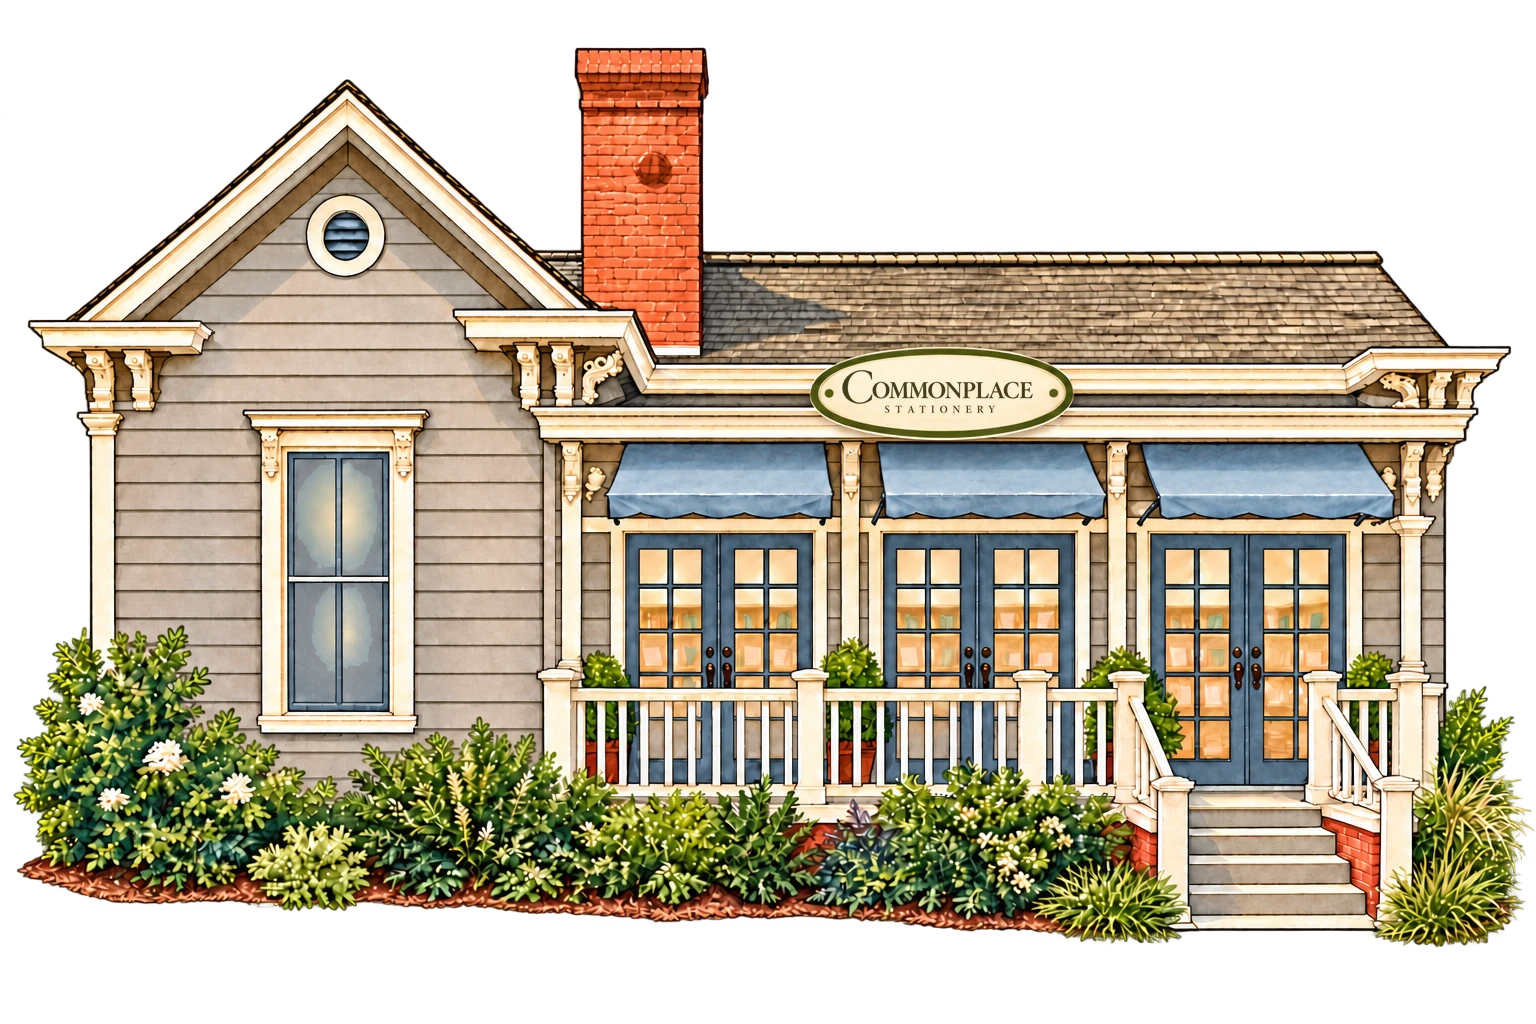
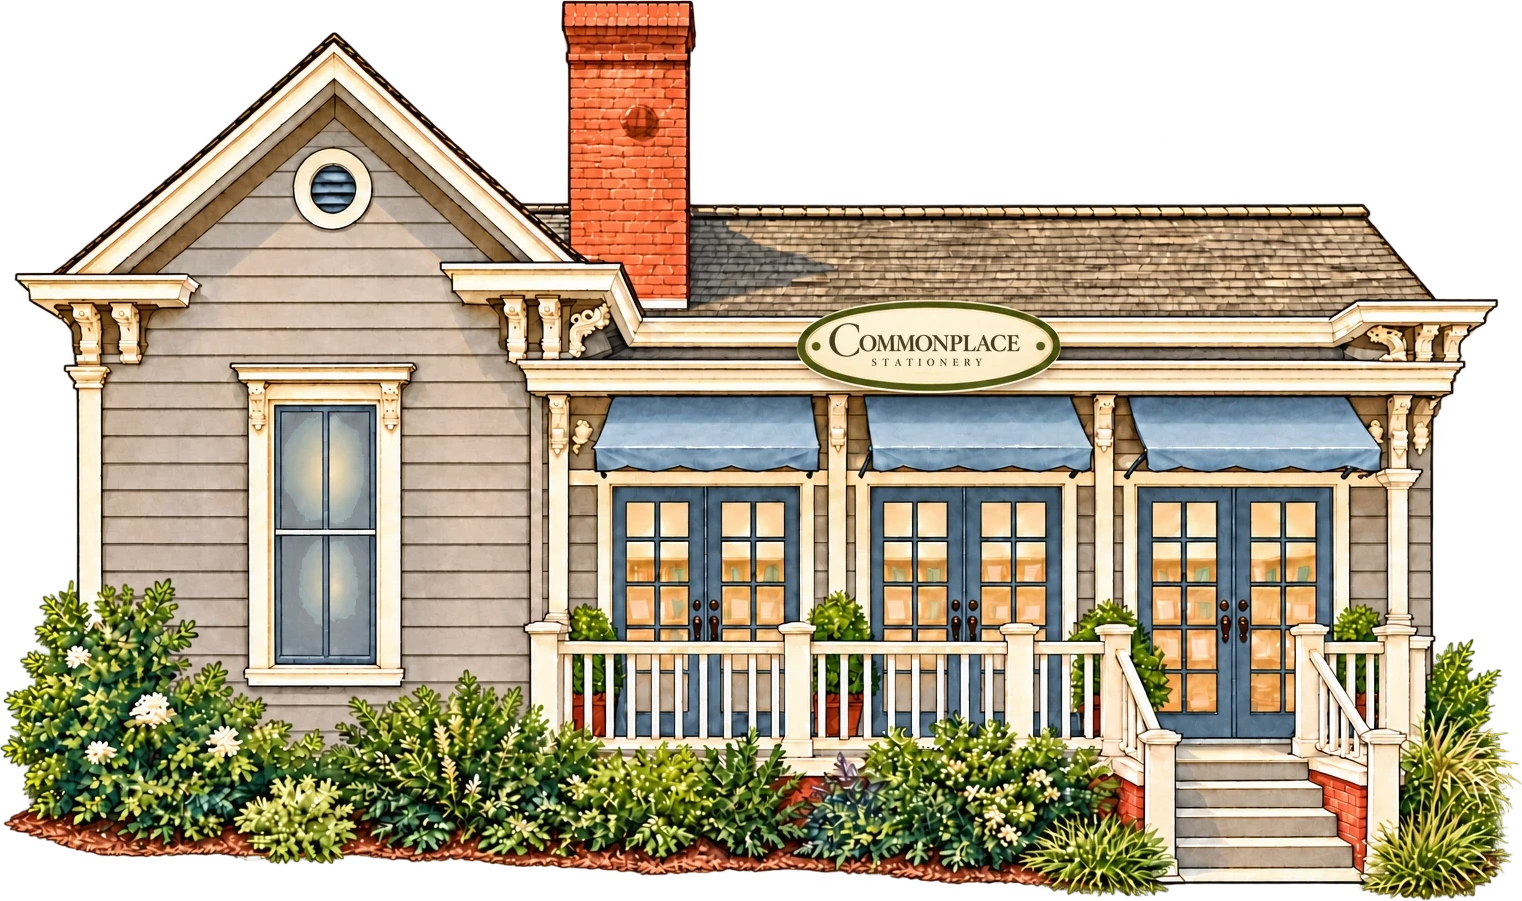
Pull the wordmark closer to the storefront
Trim the transparent padding from both images so the spacing
in CSS is the spacing you see.

Claude-Session: https://claude.ai/code/session_01Xrao6NnKEmBaN1eTBRx3RJ

diff --git a/css/styles.css b/css/styles.css
@@ -1,5 +1,5 @@
 /* Commonplace Stationery
-   Layout: a single quiet column on warm cream, wordmark above the storefront,
+   Layout: a single quiet column on warm cream, storefront above the wordmark,
    blue gingham along the bottom like a table runner. */
 :root {
   /* Palette (brand/palette.png) */
@@ -45,13 +45,13 @@ img { max-width: 100%; height: auto; display: block; }
   display: flex;
   flex-direction: column;
   align-items: center;
-  gap: clamp(1rem, 2.5vw, 2rem);
+  gap: clamp(0.75rem, 2vw, 1.5rem);
   padding-block: clamp(2rem, 6vw, 4.5rem) clamp(2rem, 5vw, 3.5rem);
   padding-left: max(16px, env(safe-area-inset-left, 0px));
   padding-right: max(16px, env(safe-area-inset-right, 0px));
 }
 
-.wordmark { margin: 0; width: min(560px, 86%); }
+.wordmark { margin: 0; width: min(495px, 76%); }
 
 .storefront { width: min(460px, 80%); }
 
@@ -75,7 +75,7 @@ img { max-width: 100%; height: auto; display: block; }
 
 /* Tagline under the wordmark */
 .tagline {
-  margin: calc(-1 * clamp(0.5rem, 2vw, 1.5rem)) 0 0.5rem;
+  margin: 0 0 0.75rem;
   font-family: var(--font-display);
   font-style: italic;
   font-weight: 500;

diff --git a/index.html b/index.html
@@ -13,10 +13,10 @@
 </head>
 <body>
   <main class="home">
-    <img class="storefront" src="assets/img/storefront.webp" width="1536" height="1024"
+    <img class="storefront" src="assets/img/storefront.webp" width="1522" height="901"
          alt="Illustration of the Commonplace shop: a grey clapboard cottage with a red brick chimney, blue awnings over glass doors, and a white porch framed by shrubs.">
     <h1 class="wordmark">
-      <img src="assets/img/wordmark.webp" width="2000" height="667" alt="Commonplace Stationery">
+      <img src="assets/img/wordmark.webp" width="1769" height="401" alt="Commonplace Stationery">
     </h1>
     <p class="tagline">Friendly Neighborhood Stationery Shop</p>
 
